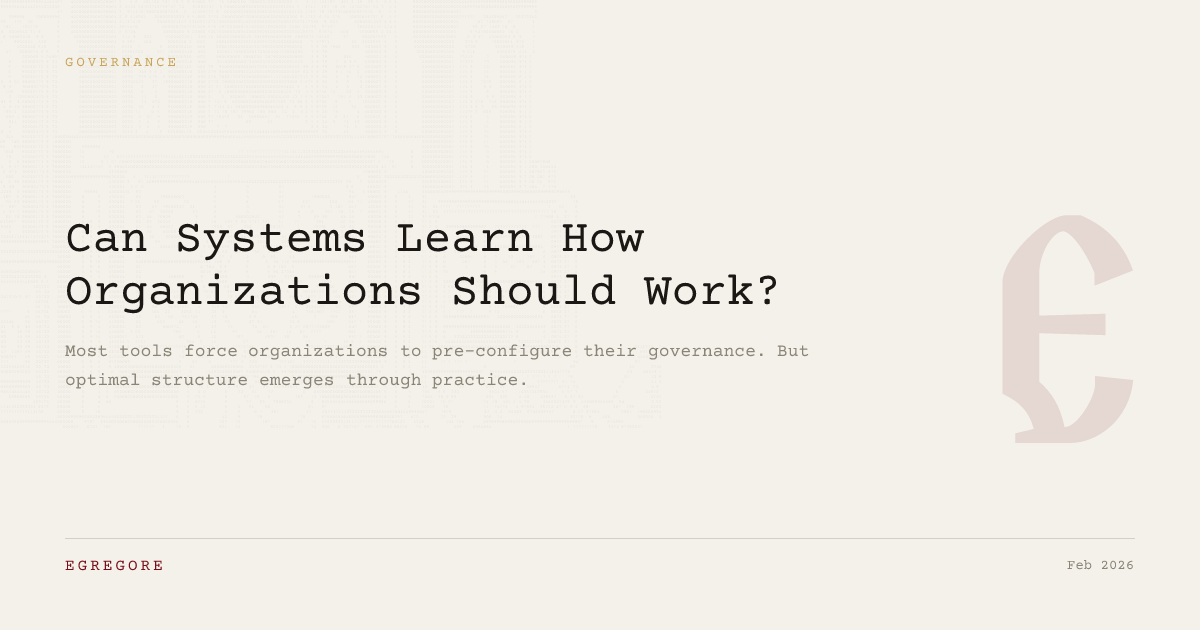
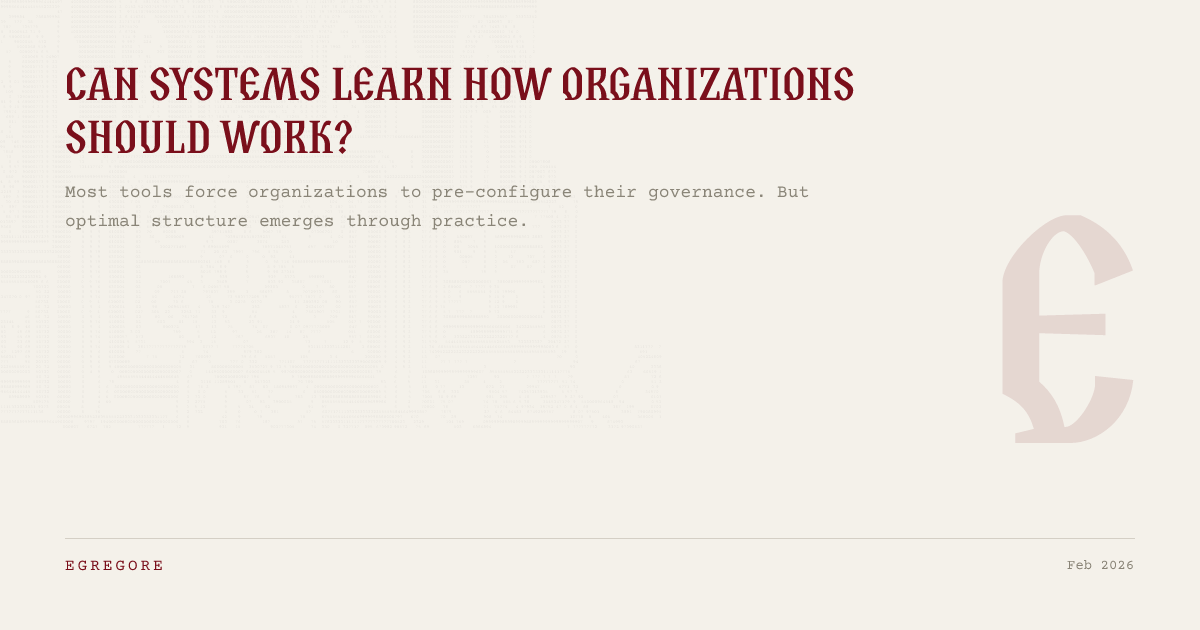
Fix OG images: Slovic red titles, remove tags, fix meta description
- Title font changed from Courier Prime to Slovic in #7A0F1B
- Remove tag labels (Philosophy, Architecture, etc.) from OG cards
- Edge function now also replaces <meta name="description"> per page

diff --git a/site/netlify/edge-functions/og.js b/site/netlify/edge-functions/og.js
@@ -117,6 +117,12 @@ function injectOgTags(html, meta) {
     `<title>${meta.title}</title>`
   );
 
+  // Replace <meta name="description">
+  result = result.replace(
+    /<meta name="description" content="[^"]*" \/>/,
+    `<meta name="description" content="${meta.description}" />`
+  );
+
   // Replace existing OG/twitter meta block with new one
   result = result.replace(
     /\s*<!-- Open Graph -->[\s\S]*?<meta name="twitter:image"[^>]*\/>/,
